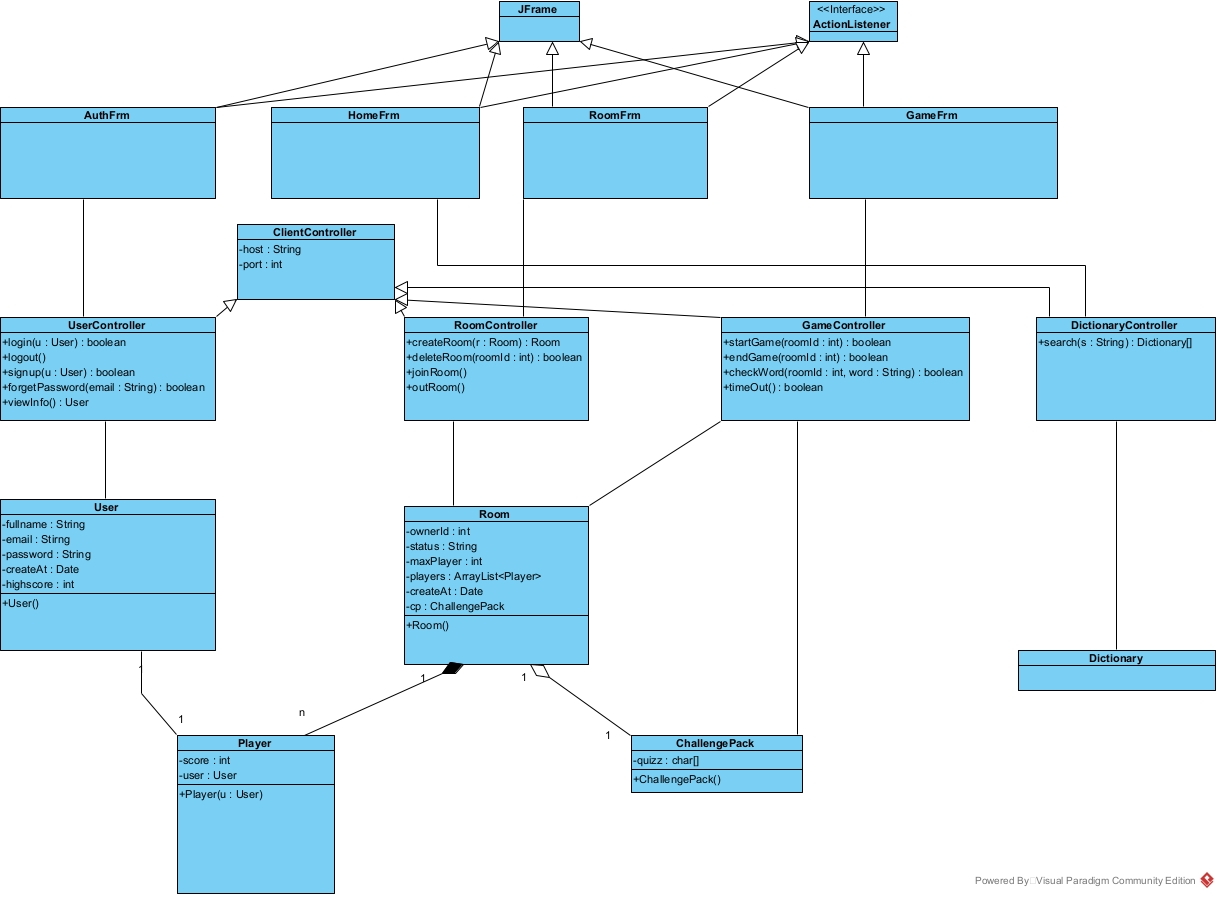
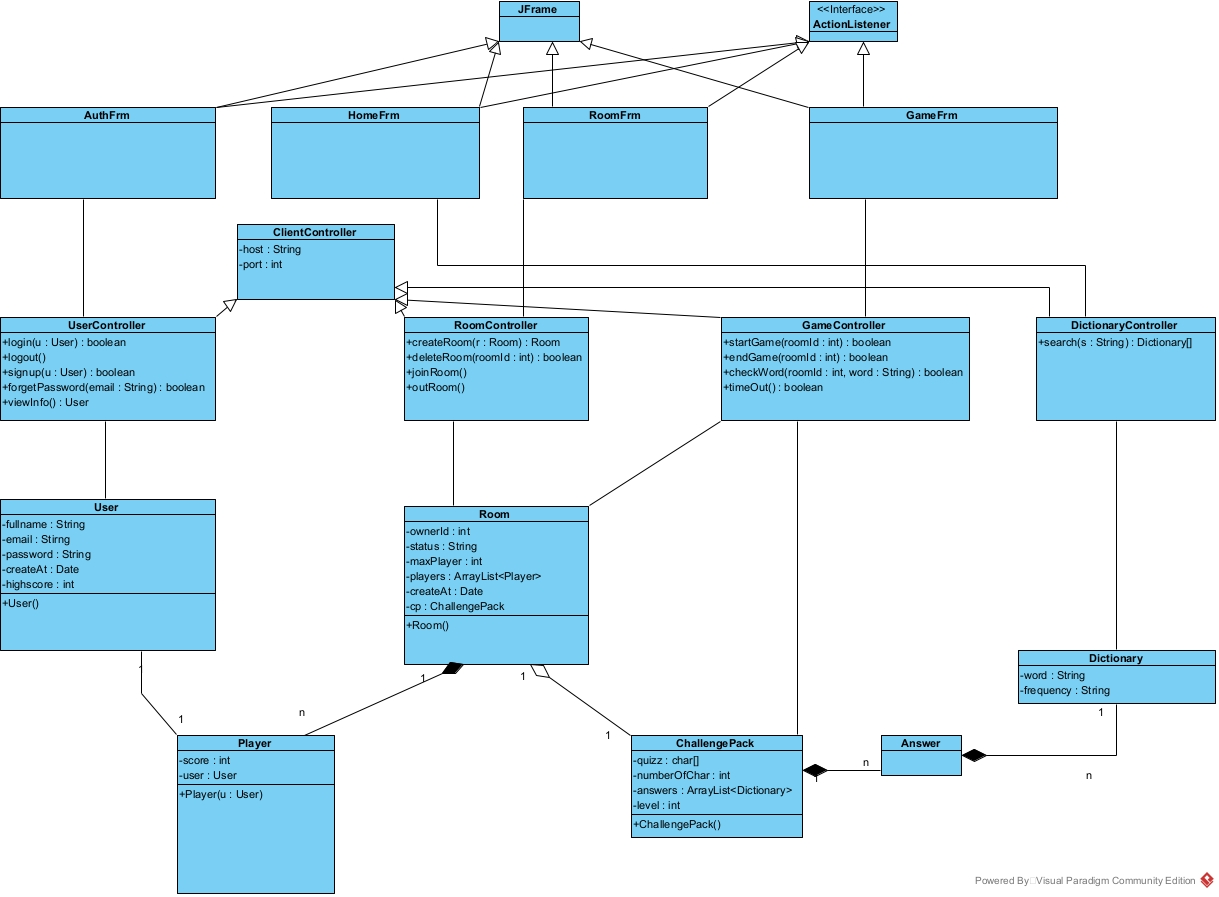
create dictionary importer, cp generator

diff --git a/server/src/main/java/vuatiengvietpj/util/ChallengePackGenerator.java b/server/src/main/java/vuatiengvietpj/util/ChallengePackGenerator.java
@@ -1,0 +1,118 @@
+package vuatiengvietpj.util;
+
+import java.sql.*;
+import java.text.Normalizer;
+import java.util.*;
+import java.util.regex.Pattern;
+import java.util.stream.Collectors;
+
+public class ChallengePackGenerator {
+    static final String URL = ConfigManager.get("DB_URL");
+    static final String USER = ConfigManager.get("DB_USER");
+    static final String PASS = ConfigManager.get("DB_PASS");
+
+    static final int MIN_ANSWER_COUNT = 10;
+
+    public static void main(String[] args) throws Exception {
+        Connection conn = DriverManager.getConnection(URL, USER, PASS);
+        Statement st = conn.createStatement();
+
+        // Lấy toàn bộ từ điển ra RAM
+        List<String> dictionary = new ArrayList<>();
+        ResultSet rs = st.executeQuery("SELECT word FROM Dictionary WHERE CHAR_LENGTH(word) BETWEEN 3 AND 8");
+        while (rs.next()) dictionary.add(rs.getString("word").toLowerCase());
+        rs.close();
+
+        // Chuẩn bị bản không dấu để so sánh
+        List<String> dictionaryNoAccent = dictionary.stream()
+                .map(w -> removeAccent(w).replaceAll("\\s+", ""))
+                .collect(Collectors.toList());
+
+        Random random = new Random();
+        int packCount = 0;
+
+        for (int i = 0; i < 2000 && packCount < 90; i++) { // sinh pack
+            String baseWord = dictionary.get(random.nextInt(dictionary.size()));
+            String baseNoAccent = removeAccent(baseWord).replaceAll("\\s+", "").trim();
+
+            String quizz = shuffleAndAddLetters(baseNoAccent, random);
+
+            // Lọc ra các từ hợp lệ dựa vào quizz không dấu
+            List<String> validWords = new ArrayList<>();
+            for (int j = 0; j < dictionary.size(); j++) {
+                String noAccent = dictionaryNoAccent.get(j);
+                if (canForm(noAccent, quizz)) validWords.add(dictionary.get(j));
+            }
+
+            if (validWords.size() >= MIN_ANSWER_COUNT) { // ít nhất n từ có thể tạo
+                packCount++;
+                int level = quizz.length() <= 6 ? 1 : (quizz.length() <= 8 ? 2 : 3);
+
+                PreparedStatement ps = conn.prepareStatement(
+                    "INSERT INTO ChallengePack (quizz, level) VALUES (?, ?)",
+                    Statement.RETURN_GENERATED_KEYS
+                );
+                ps.setString(1, quizz);
+                ps.setInt(2, level);
+                ps.executeUpdate();
+
+                ResultSet key = ps.getGeneratedKeys();
+                key.next();
+                int challengeId = key.getInt(1);
+
+                PreparedStatement pa = conn.prepareStatement(
+                    "INSERT INTO Answer (challengePackId, dictionaryWord) VALUES (?, ?)"
+                );
+                for (String w : validWords) {
+                    pa.setInt(1, challengeId);
+                    pa.setString(2, w); // từ gốc có dấu
+                    pa.addBatch();
+                }
+                pa.executeBatch();
+
+                System.out.printf("%d. %s (%d từ)\n", packCount, quizz, validWords.size());
+            }
+        }
+
+        conn.close();
+        System.out.println("Hoàn thành sinh challenge pack!");
+    }
+
+    // Sinh chuỗi quiz (không dấu)
+    static String shuffleAndAddLetters(String base, Random r) {
+        String letters = "abcdefghijklmnopqrstuvwxyz";
+        Set<Character> set = new HashSet<>();
+        for (char c : base.toCharArray()) {
+            if (Character.isLetter(c)) set.add(c); // bỏ qua dấu cách hoặc ký tự khác
+        }
+        while (set.size() < base.length() + 2) {
+            set.add(letters.charAt(r.nextInt(letters.length())));
+        }
+        List<Character> list = new ArrayList<>(set);
+        Collections.shuffle(list);
+        StringBuilder sb = new StringBuilder();
+        for (char c : list) sb.append(c);
+        return sb.toString().replaceAll("\\s+", ""); // đảm bảo không có space
+    }
+
+
+    // Kiểm tra xem word có thể tạo từ quizz không (không dấu)
+    static boolean canForm(String word, String quizz) {
+        Map<Character, Long> wCount = word.chars().mapToObj(c -> (char) c)
+            .collect(Collectors.groupingBy(c -> c, Collectors.counting()));
+        Map<Character, Long> qCount = quizz.chars().mapToObj(c -> (char) c)
+            .collect(Collectors.groupingBy(c -> c, Collectors.counting()));
+        for (var e : wCount.entrySet()) {
+            if (qCount.getOrDefault(e.getKey(), 0L) < e.getValue()) return false;
+        }
+        return true;
+    }
+
+    // Hàm xóa dấu tiếng Việt
+    static String removeAccent(String s) {
+        String temp = Normalizer.normalize(s, Normalizer.Form.NFD);
+        Pattern pattern = Pattern.compile("\\p{InCombiningDiacriticalMarks}+");
+        temp = pattern.matcher(temp).replaceAll("");
+        return temp.replace("đ", "d").replace("Đ", "D");
+    }
+}

diff --git a/server/src/main/java/vuatiengvietpj/util/DictionaryImporter.java b/server/src/main/java/vuatiengvietpj/util/DictionaryImporter.java
@@ -1,0 +1,74 @@
+package vuatiengvietpj.util;
+
+import java.io.*;
+import java.sql.*;
+import org.json.JSONObject;
+
+public class DictionaryImporter {
+    static final String jdbcURL = ConfigManager.get("DB_URL");
+    static final String username = ConfigManager.get("DB_USER");
+    static final String password = ConfigManager.get("DB_PASS");
+
+    public static void main(String[] args) {
+
+        int batchSize = 1000;
+        int count = 0;
+
+        try (Connection connection = DriverManager.getConnection(jdbcURL, username, password)) {
+            connection.setAutoCommit(false);
+
+            String sql = "INSERT INTO Dictionary (word, frequency) VALUES (?, 0) " +
+                         "ON DUPLICATE KEY UPDATE word = word";
+            PreparedStatement statement = connection.prepareStatement(sql);
+
+            InputStream inputStream = DictionaryImporter.class.getResourceAsStream("/vuatiengvietpj/words.txt");
+            if (inputStream == null) {
+                System.err.println("words.txt file not found");
+                return;
+            }
+
+            BufferedReader reader = new BufferedReader(new InputStreamReader(inputStream, "UTF-8"));
+
+            String line;
+            while ((line = reader.readLine()) != null) {
+                line = line.trim();
+                if (line.isEmpty()) continue;
+
+                try {
+                    JSONObject obj = new JSONObject(line);
+                    String word = obj.getString("text").trim();
+
+                    // Lọc bỏ các dòng không phải từ hợp lệ
+                    if (!isValidWord(word)) continue;
+
+                    statement.setString(1, word);
+                    statement.addBatch();
+
+                    if (++count % batchSize == 0) {
+                        statement.executeBatch();
+                        System.out.println("Imported: " + count + " words...");
+                    }
+                } catch (Exception e) {
+                    // Nếu 1 dòng bị lỗi JSON thì bỏ qua
+                    continue;
+                }
+            }
+
+            reader.close();
+            statement.executeBatch();
+            connection.commit();
+
+            System.out.println("Imported: " + count + " words in total.");
+        } catch (Exception ex) {
+            ex.printStackTrace();
+        }
+    }
+
+    // Hàm lọc bỏ các chuỗi không phải từ vựng tiếng Việt hợp lệ
+    private static boolean isValidWord(String word) {
+        if (word.length() < 1 || word.length() > 50) return false;
+        if (word.matches(".*[0-9~!@#$%^&*()_=+\\[\\]{}|;:'\",.<>?/\\\\].*")) return false;
+        if (word.toLowerCase().startsWith("bản mẫu")) return false;
+        return true;
+    }
+}

diff --git a/server/src/main/java/vuatiengvietpj/util/ConfigManager.java b/server/src/main/java/vuatiengvietpj/util/ConfigManager.java
@@ -9,7 +9,7 @@ public class ConfigManager {
 
     static {
         try (InputStream is = ConfigManager.class.getClassLoader()
-                .getResourceAsStream("config.properties")) {
+                .getResourceAsStream("vuatiengvietpj/config.properties")) {
             if (is != null) {
                 props.load(is);
             }
